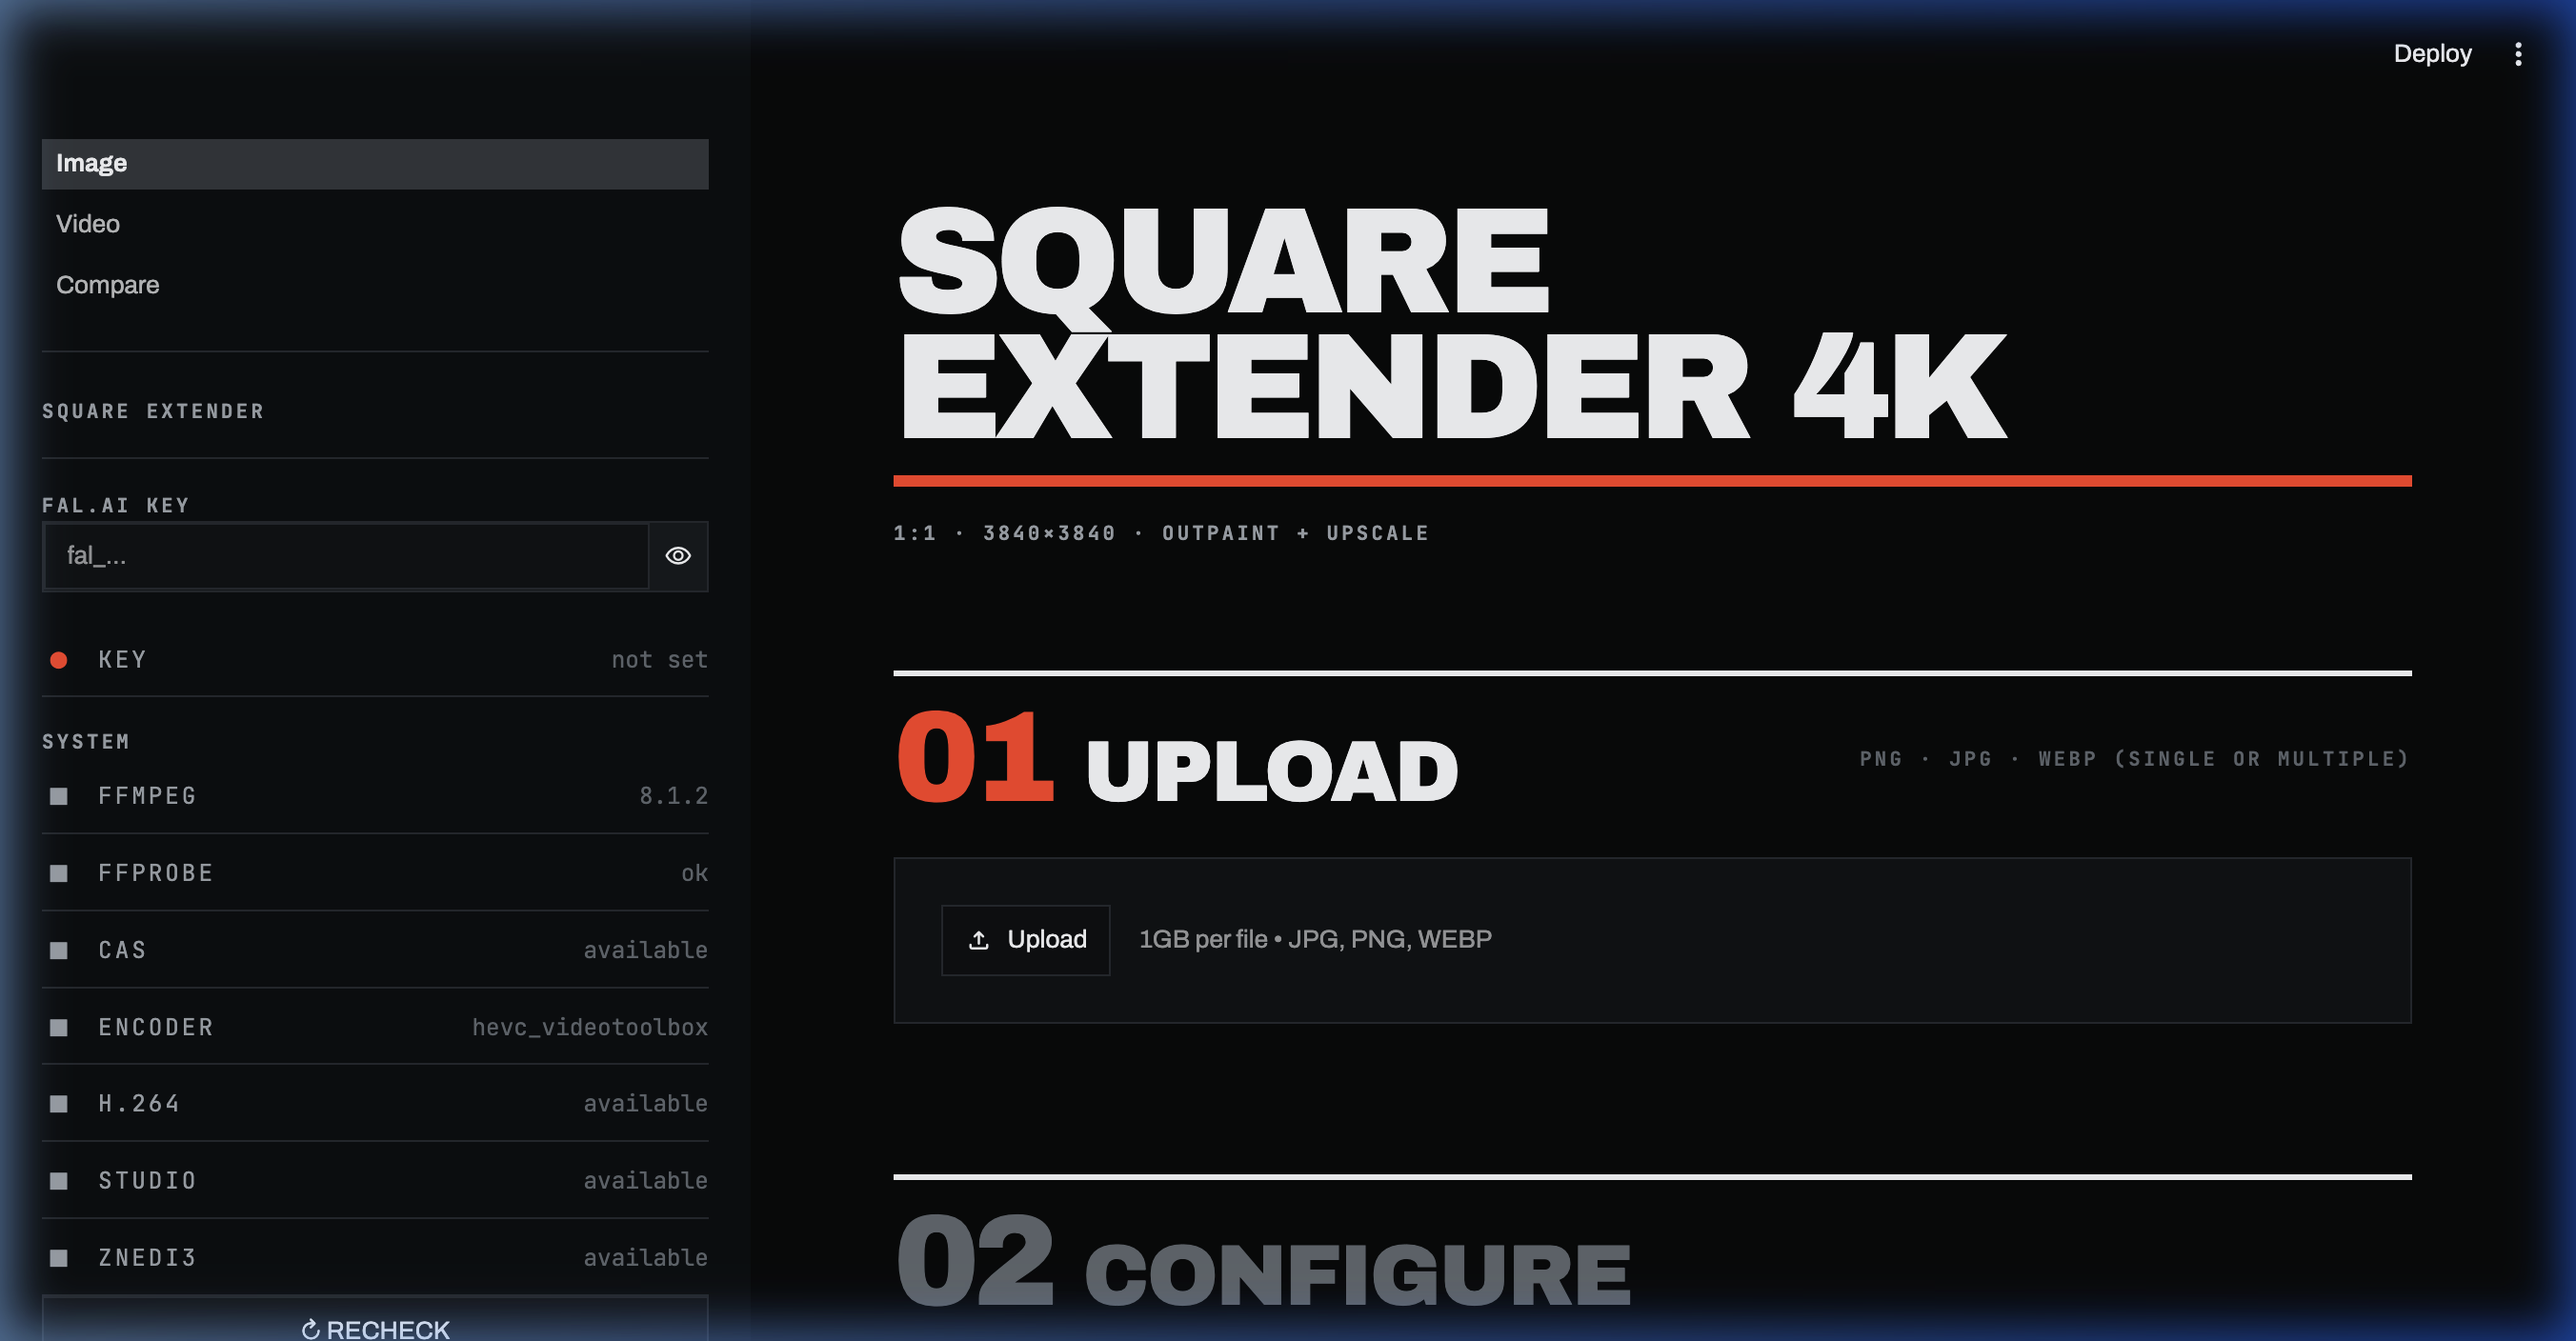
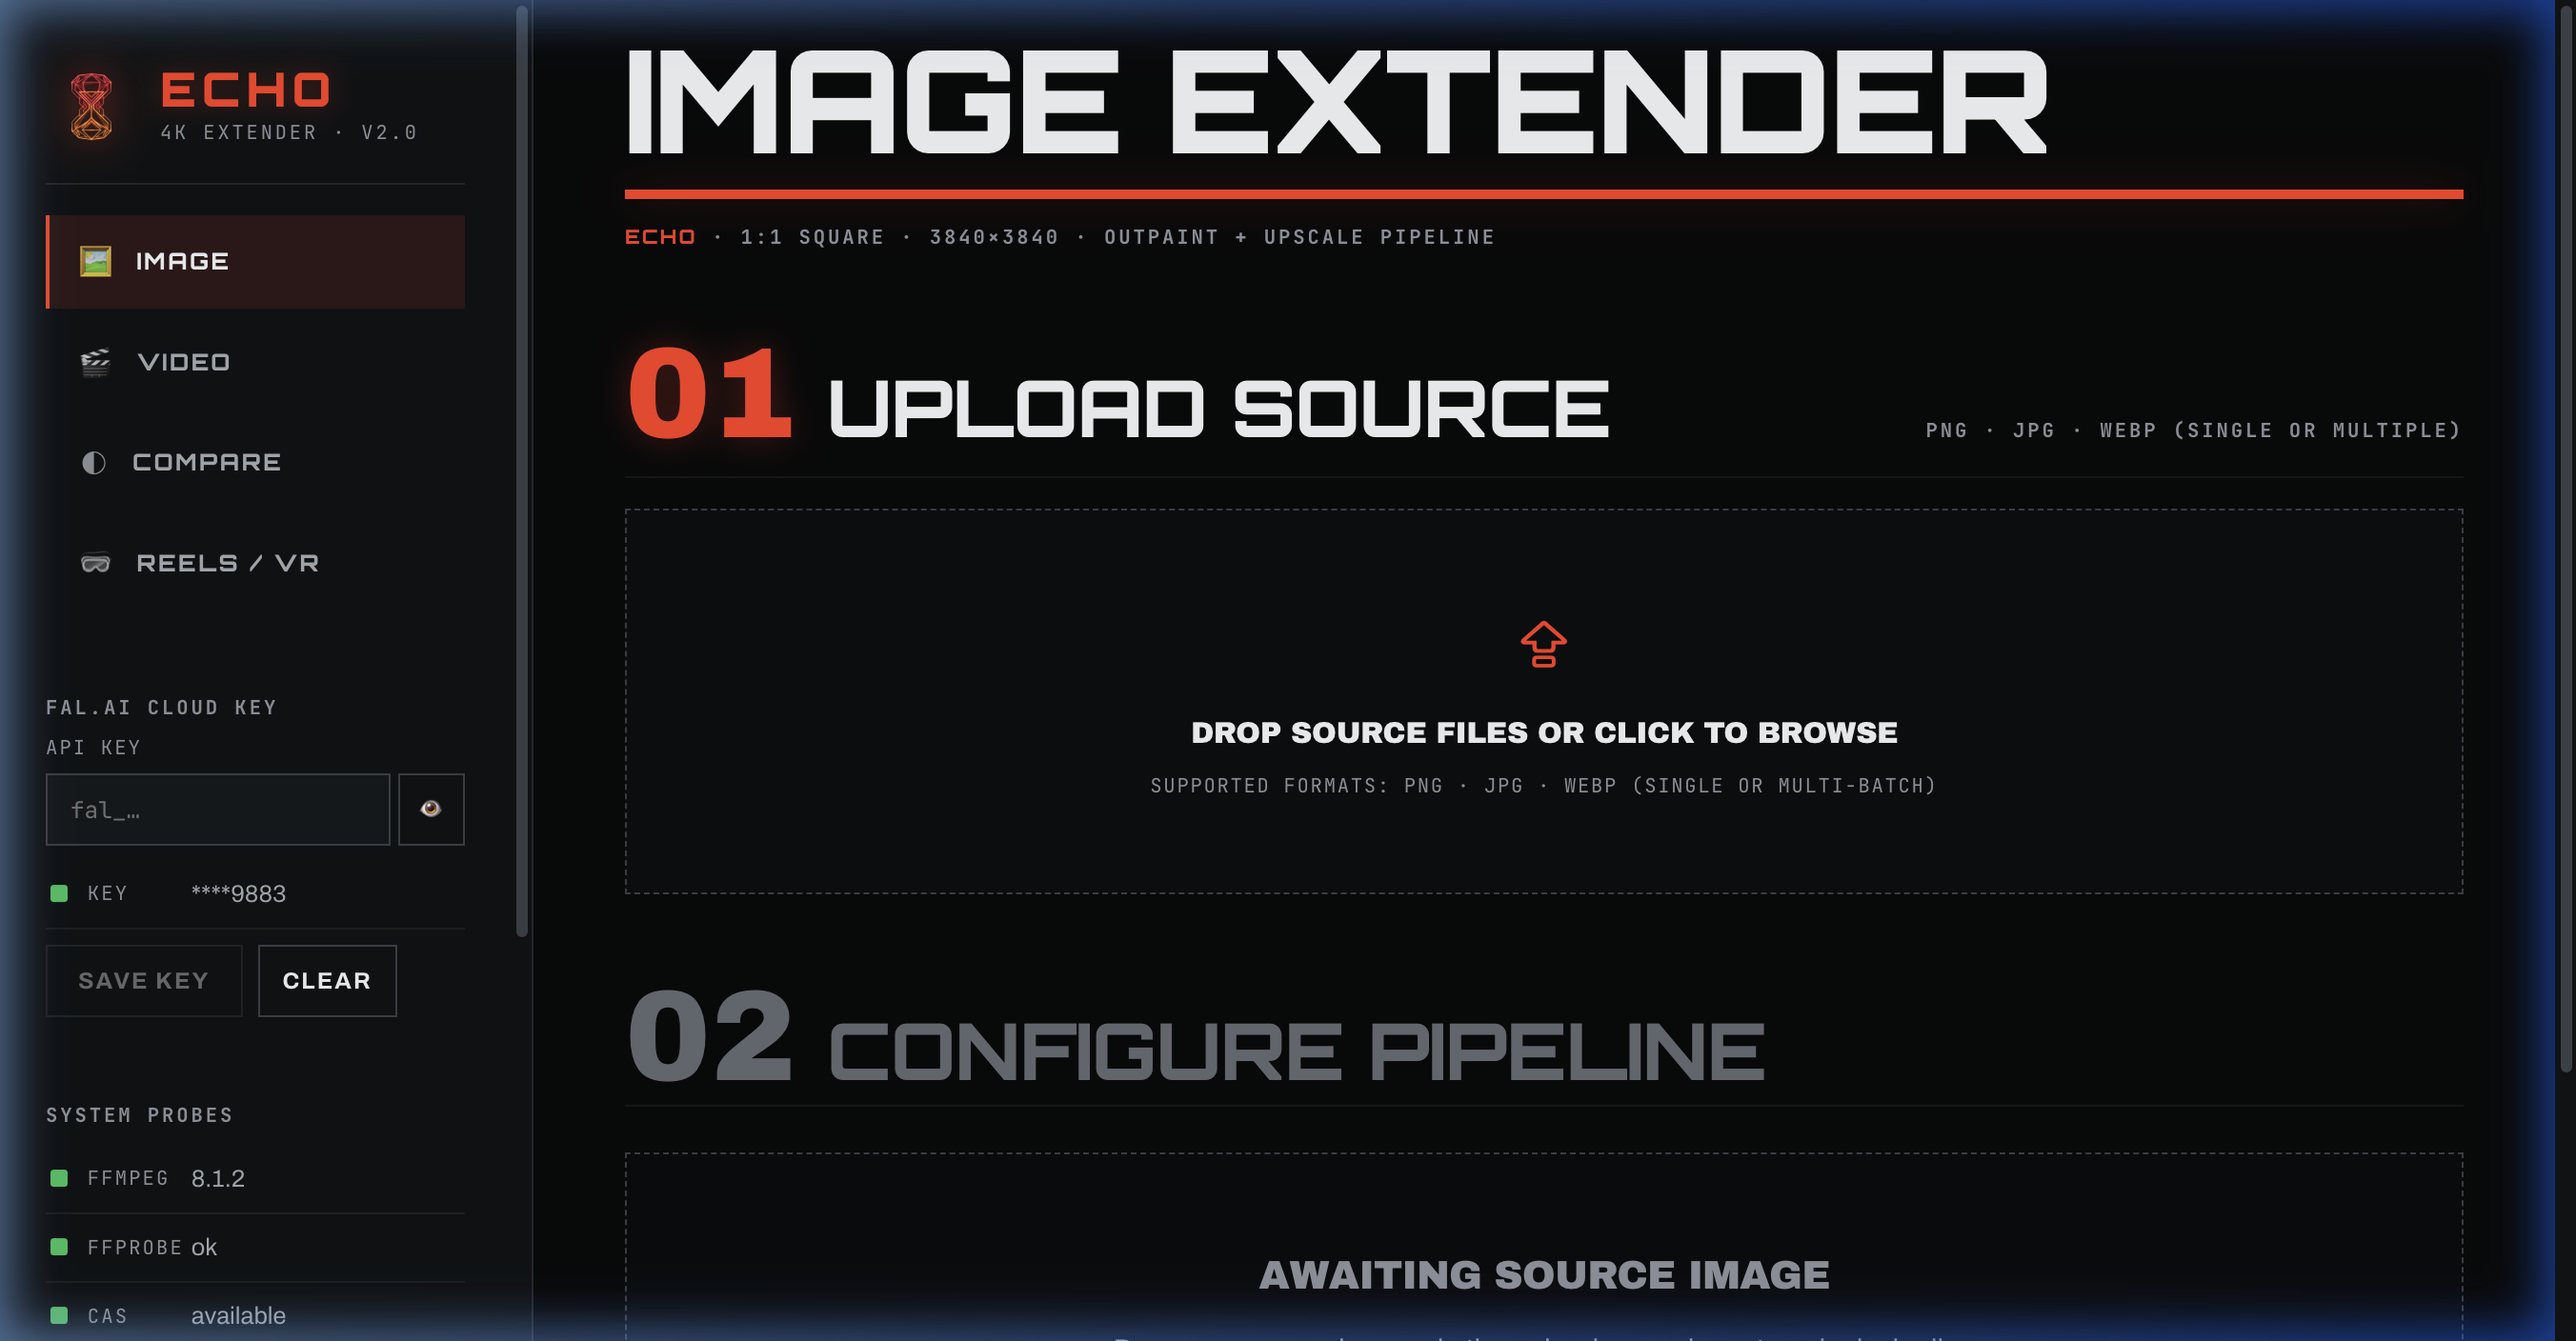
refactor: migrate to React 19/Vite 6 frontend and FastAPI backend with updated documentation and screenshots for v2.0

diff --git a/README.md b/README.md
@@ -1,90 +1,117 @@
-# Square Extender 4K
+# ECHO — 4K Square Spatial Video Extender & WebXR VR Player (v2.0)
 
-Converts images and videos into a **1:1 square 4K master (3840×3840)** by generatively outpainting padding via [fal.ai](https://fal.ai) and upscaling locally with hardware-accelerated **FFmpeg** or **VapourSynth**, featuring an integrated **WebXR 4K Reels Player** optimized for **Meta Quest 3**.
+<p align="center">
+  <img src="web/public/logo.png" alt="ECHO Logo" width="120" />
+</p>
 
-```
-UPLOAD (Single / Batch)  →  CONFIGURE (Outpaint & Upscale)  →  ESTIMATE COST  →  RESULT (4K Master)  →  REELS (WebVR)
-```
+<p align="center">
+  <strong>Generative 1:1 Square Outpainting · 4K HEVC Spatial Master Encoding · WebXR Immersive Cosmic VR Reels</strong>
+</p>
 
 ---
 
 ## Visual Showcase
 
-### Image Processing & Multi-File Batch Mode
+### 1. Image Extender & Multi-File Batch Mode
+Generatively extend canvas borders to 1:1 square (3840×3840) with instant padding metrics and multi-model cloud / offline upscalers.
 ![Image Processing Interface](docs/images/image_extender.png)
 
-### Video Processing, Bytedance Upscaler & Live Cost Breakdown
+### 2. Video Extender & Live Cost Breakdown
+Full outpaint + upscale pipeline featuring Bytedance Video Upscaler, LTX 2.3, Luma Ray-2, local HEVC master encoding, and live pre-render billing estimator.
 ![Video Processing Interface](docs/images/video_extender.png)
 
-### WebXR 4K Master Reels Player (Meta Quest 3 / WebVR)
+### 3. WebXR 4K Reels Player (Desktop Viewport with Dynamic Glow)
+Ultra-smooth 1:1 square reels player with synchronized dynamic ambient glow (Ambilight), instant folder / codec switching, and search filtering.
 ![Reels Player Interface](docs/images/reels_player.png)
 
-### Interactive Render Comparison
+### 4. WebXR Immersive Cosmic VR Mode (Meta Quest 3 / Vision Pro)
+Step inside an atmospheric midnight-blue cosmos with 1,800 breathing stars, real-time radiant video glow, 6DOF natural grab-and-drag, and 3D floating spatial transport panel.
+![WebXR VR Mode Simulation](docs/images/reels_vr_mode.png)
+
+### 5. Fast vs Studio Render Comparison Inspector
+Interactive side-by-side A/B slider comparing Lanczos4+CAS against ZNEDI3 neural interpolation with automatic proxy streaming.
 ![Compare Page Interface](docs/images/compare_slider.png)
 
 ---
 
 ## Key Features
 
-- ⚡ **Multi-Item Batch Upload**: Drop single or multiple images (`PNG`, `JPG`, `WEBP`) or videos (`MP4`, `MOV`, `AVI`, `WEBM`) at once.
-- 🥽 **WebXR 4K Master Reels Player (Meta Quest 3)**:
-  - **Hardware HEVC Acceleration**: Native 4K HEVC playback on Quest 3 Snapdragon XR2 Gen 2.
-  - **IMAX Curved Screen Arc**: Authentic YouTube VR-style curved 3D quad geometry (`ARC_ANGLE = 0.6 rad`).
-  - **6DOF Natural Grab & Level Horizon**: Hold grip button to drag/reposition video screen; screen auto-aligns level to viewer POV with 0 sideways roll.
-  - **Interactive 3D Transport Panel**: Floating 2D canvas controls panel in 3D VR space with Play/Pause, Seek, Mute, Curve, and `🔄 AUTO` / `🔁 LOOP` playback mode toggles.
-  - **Background Preloader**: Pre-buffers next track for zero-latency reel transitions.
-- 💰 **Live Pre-Render Cloud Cost Estimator**: Real-time billing breakdown panel displayed before render, calculating effective video duration, outpaint stage costs, and upscale stage costs.
-- 🚀 **Bytedance Video Upscaler Cloud Model**:
-  - Model ID: `fal-ai/bytedance-upscaler/upscale/video`
-  - Configurable target resolution (`1080p`, `2k`, `4k`), FPS (`30fps`, `60fps`), quality tier (`fast`, `standard`, `pro`), scenario presets (`general`, `ugc`, `short_series`, `aigc`, `old_film`), and fidelity (`medium`, `high`).
-- 🎬 **Optimized 4K HEVC Master Video Encoding**:
-  - Hardware-accelerated local HEVC encoding (`hevc_videotoolbox` / `hevc_nvenc` / `libx265`).
-  - Capped 14M/16M VBR bitrate ceiling to prevent network buffer starvation on VR headsets.
-  - `-movflags +faststart` MOOV header placement for instant frame 1 pre-roll streaming.
-- 🎨 **Dual Pipeline Modes**:
-  - **OUTPAINT + UPSCALE**: Generatively extends short edges via `fal.ai` cloud models (LTX 2.3 Quality, Luma Ray-2 Reframe, Kling Video) before upscaling.
+### 🥽 WebXR 4K Master Reels Player (Meta Quest 3 & Apple Vision Pro)
+- **Deep Midnight-Blue Cosmic Skybox**: Surrounds the viewer with 1,800 procedurally placed stars with multi-harmonic harmonic twinkling and additive alpha blending.
+- **Dynamic Real-Time Ambilight Aura**: Synchronized Gaussian glow backing on 2D desktop browsers and GLSL fragment glow shader in WebXR stereo VR.
+- **All-Side 3D Curvature Screen Modes**:
+  - **`🌐 DOME` (Concave Hemisphere)**: Curves symmetrically toward the viewer in a true 3D spherical dome cap with direct center focal apex $(0,0,0)$.
+  - **`🔲 SQ CURVE` (Concave Square)**: Dual-axis curvature along both $X$ and $Y$ dimensions while preserving sharp rectangular framing.
+  - **`📺 FLAT`**: Planar display mode.
+- **6DOF Natural Grab & Level Horizon**: Hold the Quest grip button to freely drag and position the video screen anywhere in 3D space with zero roll disorientation.
+- **Floating 3D Spatial Transport Panel**: Seek, Play/Pause, Mute, Volume, Curvature Toggle, and `🔄 AUTO` / `🔁 LOOP` modes rendered in 3D space.
+- **Zero-Latency Video Preloader**: Proactively pre-buffers the next track for instantaneous reel transitions.
+
+### 🎨 Generative 1:1 Square Outpainting & 4K Encoding
+- **Dual Pipeline Modes**:
+  - **OUTPAINT + UPSCALE**: Generatively extends portrait/landscape videos to 1:1 square via `fal.ai` models (LTX 2.3, Luma Ray-2, Kling Video) before upscaling.
   - **UPSCALE ONLY**: Runs 100% locally with zero cloud API keys required.
-- 🔍 **System Diagnostic & Self-Healing**: Auto-locates `ffmpeg`, `ffprobe`, `vspipe`, and HEVC hardware encoders across system PATHs and virtual environments.
+- **Bytedance Video Upscaler Integration**:
+  - Model ID: `fal-ai/bytedance-upscaler/upscale/video`
+  - Custom target resolution (`1080p`, `2k`, `4k`), frame rate (`30fps`, `60fps`), quality tier, scenario presets, and fidelity settings.
+- **Local Hardware HEVC Master Encoding**:
+  - Hardware acceleration (`hevc_videotoolbox` on macOS / `hevc_nvenc` on NVIDIA / `libx265`).
+  - Bitrate ceiling optimization to guarantee smooth Quest 3 decoding without buffer drops.
+  - `-movflags +faststart` MOOV header atom placement for instant frame-1 streaming.
+
+### ⚡ Modern Single Page Application Architecture (v2.0)
+- **React 19 + Vite 6 Frontend**: Cyberpunk brutalist dark mode design system with Tron-inspired **Orbitron** typography, unified 38px controls, and glassmorphism.
+- **FastAPI Asynchronous Backend**: Non-blocking REST endpoints, Server-Sent Events (SSE) live job progress streaming, and HTTP 206 Partial Content video range serving.
 
 ---
 
 ## Quick Start
 
-### 1. Requirements
-
+### 1. Prerequisites
+- **Node.js 18+** & **npm**
 - **Python 3.10 to 3.12+**
-- **FFmpeg & FFprobe** (installed on system or PATH)
+- **FFmpeg & FFprobe** installed and available in your PATH
 
-### 2. Environment Setup
+### 2. Installation
 
 ```bash
-# Clone repository
+# Clone the repository
 git clone https://github.com/LeDHoang/videoextendersquare.git
 cd videoextendersquare
 
-# Create virtual environment & install dependencies
+# Set up Python virtual environment
 python -m venv .venv
-source .venv/bin/activate      # On Windows: .venv\Scripts\activate
+source .venv/bin/activate    # On Windows: .venv\Scripts\activate
 pip install -r requirements.txt
+
+# Install frontend dependencies
+cd web
+npm install
+cd ..
 ```
 
-### 3. API Key Configuration
-
-Create a `.env` file from `.env.example`:
+### 3. Configuration
+Create a `.env` file in the project root:
 
 ```env
 FAL_KEY=your_fal_ai_api_key_here
 ```
+*(Note: `FAL_KEY` is only required for generative outpainting and cloud upscaling. Local FAST/STUDIO modes run completely offline.)*
 
-> **Note**: `FAL_KEY` is only required for generative outpainting and cloud upscaling. **UPSCALE ONLY (FAST / STUDIO)** mode runs entirely offline.
+### 4. Running the Application
 
-### 4. Launch Web Application
-
+In terminal 1 (FastAPI Backend):
 ```bash
-streamlit run app.py
+.venv/bin/uvicorn server.app:app --host 127.0.0.1 --port 8000 --reload
 ```
 
-Open **http://localhost:8501** in your browser.
+In terminal 2 (Vite Frontend):
+```bash
+cd web
+npm run dev
+```
+
+Open **http://localhost:5173** in your browser.
 
 ---
 
@@ -92,37 +119,42 @@ Open **http://localhost:8501** in your browser.
 
 WebXR requires a **Secure Context** (`https://` or `localhost`).
 
-1. Connect Meta Quest 3 to your Mac via USB-C.
-2. Open Chrome on Mac and go to `chrome://inspect/#devices`.
+1. Connect your Meta Quest 3 to your Mac / PC via USB-C cable.
+2. Open Chrome and navigate to `chrome://inspect/#devices`.
 3. Click **Port forwarding...** and add:
-   - `8501` → `localhost:8501` (Streamlit Web App)
-   - `8502` → `localhost:8502` (Media Server)
-4. On Meta Quest 3 Browser, navigate to: `http://localhost:8501/reels`.
-5. Click **"Enter VR 🥽"** to launch the immersive 4K VR Reels session!
+   - `5173` → `localhost:5173` (Vite Frontend)
+   - `8000` → `localhost:8000` (FastAPI Server)
+4. On your Meta Quest Browser, navigate to: `http://localhost:5173/reels`.
+5. Click **"VR MODE 🥽"** on screen to enter the cosmic WebXR immersive player!
 
 ---
 
-## Architecture
+## Project Structure
 
 ```
-app.py                  Streamlit entrypoint: layout, navigation, environment setup
-.streamlit/config.toml  Native dark theme tokens & web fonts
-docs/images/            Documentation UI screenshots
-pipeline/               Core processing workers (thread-isolated)
-├─ image_worker.py      fal.ai flux outpaint + FFmpeg Lanczos4 upscale
-├─ video_worker.py      fal.ai (LTX / Luma / Kling outpaint + Bytedance / SeedVR2 upscale) + local HEVC master
-└─ utils.py             Geometry, padding math & execution logger
-ui/                     Editorial UI & state engine
-├─ views/               image_view, video_view, reels_view, compare_view
-├─ assets/              reels.html, webxr_vr.js, app.css
-├─ runner.py            Thread pool manager with live progress streaming & queuing
-├─ health.py            System PATH self-heal & hardware probes
-├─ media.py             Session staging, web proxies & result persistence
-└─ mediaserver.py       High-performance HTTP 206 range server (port 8502)
+videoextendersquare/
+├── web/                    # Modern React 19 + Vite 6 SPA
+│   ├── src/
+│   │   ├── pages/          # ImagePage, VideoPage, ReelsPage, ComparePage
+│   │   ├── components/     # UI primitives, controls, Sidebar, Nav, ReelsPlayer
+│   │   ├── styles/         # Design tokens (tokens.css) & global styles (global.css)
+│   │   └── api/            # REST & SSE streaming client
+│   └── public/             # Logo emblem, icons, and static assets
+├── server/                 # High-performance FastAPI backend
+│   ├── app.py              # Application lifecycle & middleware
+│   ├── routers/            # image.py, video.py, reels.py, compare.py, config.py
+│   ├── media.py            # H.264 proxy transcoding & pair scanning
+│   └── jobs.py             # Asynchronous task runner with SSE broadcast
+├── pipeline/               # Core media transformation workers
+│   ├── image_worker.py     # Flux outpainting & Lanczos4 / FAL upscaling
+│   ├── video_worker.py     # Video outpainting (LTX/Luma/Kling) & HEVC encoding
+│   └── utils.py            # Geometric padding math & FFmpeg probing
+├── ui/assets/              # WebGL & WebXR shaders (webxr_vr.js, reels.html, compare.html)
+└── docs/images/            # High-resolution documentation screenshots
 ```
 
 ---
 
 ## License
 
-MIT License. Built for high-performance video and image transformation workflows.
+MIT License. Designed and built for high-performance generative spatial video transformation and immersive WebXR playback.
